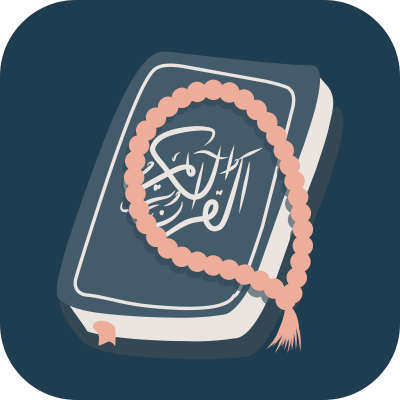
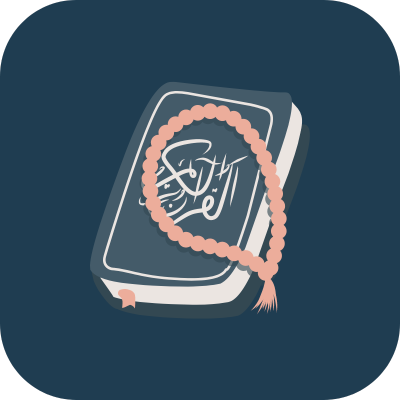
🐛 Fix RTL bug with autorestart

Changed region(s): [[0.12, 0.12, 0.84, 0.87]]

diff --git a/App.tsx b/App.tsx
@@ -6,31 +6,34 @@ import { persistor } from "./Redux/store";
 import { PersistGate } from "redux-persist/integration/react";
 import { store } from "./Redux/store";
 import { RootSiblingParent } from "react-native-root-siblings";
-import { LogBox } from 'react-native'; 
+import { LogBox } from "react-native";
 
 // Fonts
 import { useFonts } from "expo-font";
 import { fonts } from "./fonts";
 
-
 // Main app
 import Navigation from "./Navigation";
-import Toast from 'react-native-toast-message';
+import Toast from "react-native-toast-message";
 
 // RTL
 import { I18nManager } from "react-native";
-
-
+import RNRestart from 'react-native-restart';
 
 const AppWrapper = () => {
   // RTL
   I18nManager.allowRTL(true);
   I18nManager.forceRTL(true);
 
+  if(!I18nManager.isRTL){
+    I18nManager.forceRTL(true);
+    RNRestart.restart();
+ }
+
   //Ignore app screen warnings (still show in terminal)
   React.useEffect(() => {
-    LogBox.ignoreAllLogs(true)
- }, [])
+    LogBox.ignoreAllLogs(true);
+  }, []);
 
   // Load fonts
   const [fontsLoaded] = useFonts(fonts);
@@ -41,7 +44,7 @@ const AppWrapper = () => {
         <RootSiblingParent>
           <Navigation />
           {/* Allows showing toast messages anywhere with Toast.show({...}) */}
-          <Toast />           
+          <Toast />
         </RootSiblingParent>
       </PersistGate>
     </Provider>
